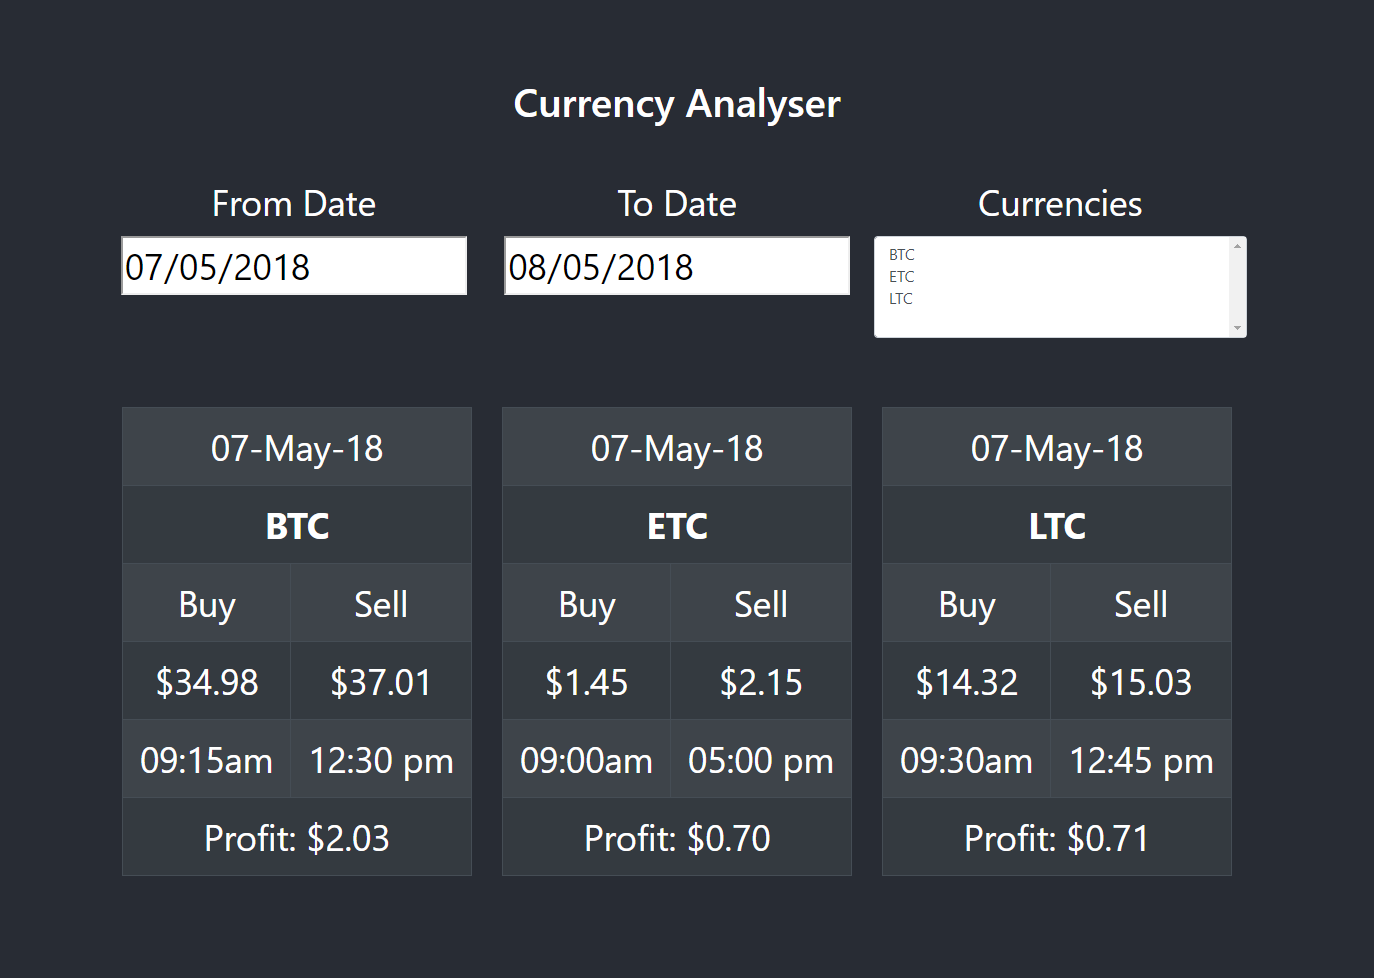
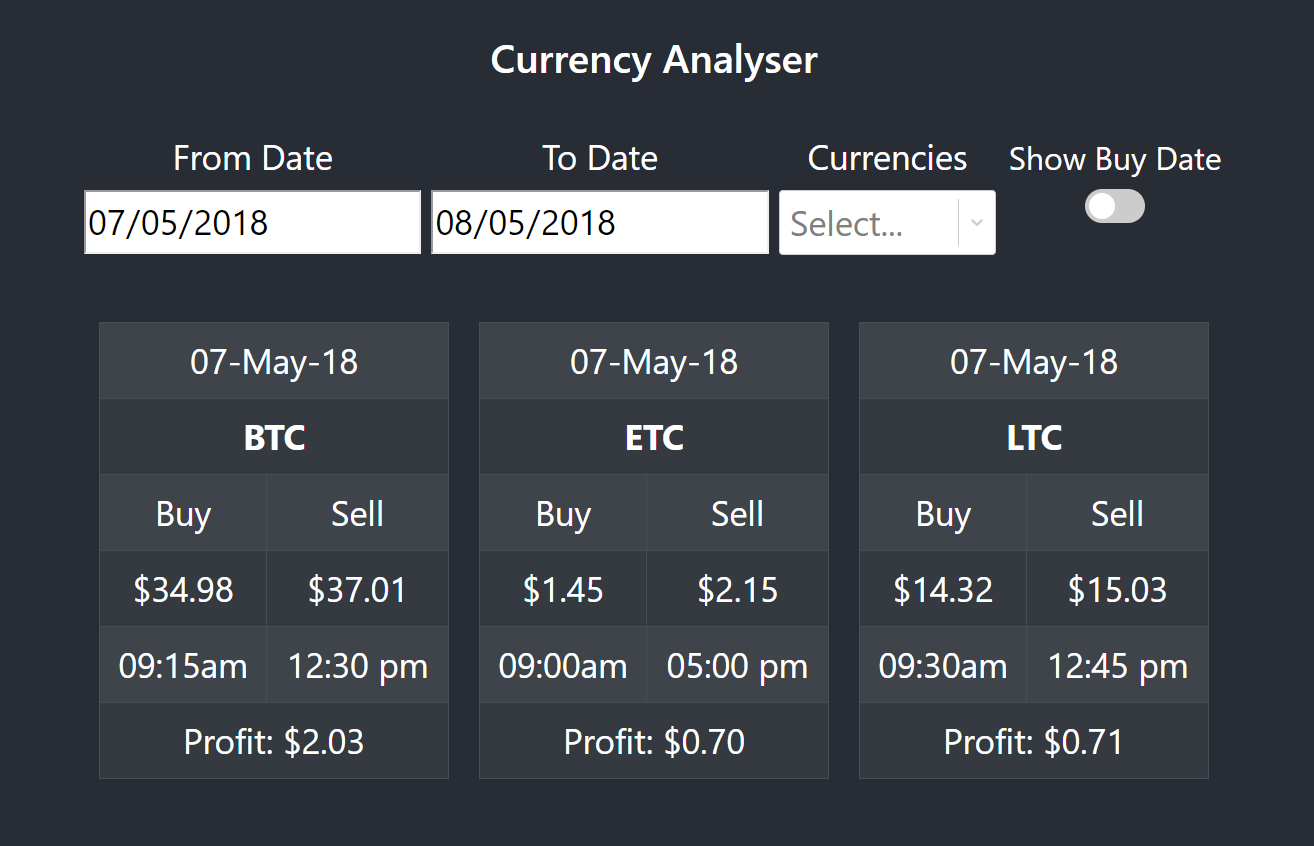
show buy date checkbox added

diff --git a/client/src/components/ProfitTable.tsx b/client/src/components/ProfitTable.tsx
@@ -7,16 +7,32 @@ import moment from 'moment'
 const ProfitTable = (props: any) => {
   return (
     <div>
-      <Table striped bordered hover variant="dark">
-        <tbody>
-          <tr><td colSpan={2}><Moment format="DD-MMMM-YY" date={props.data.buy.date}/></td></tr>
-          <tr><th colSpan={2}>{props.currency}</th></tr>
-          <tr><td>Buy</td><td>Sell</td></tr>
-          <tr><td>${props.data.buy.price}</td><td>${props.data.sell.price}</td></tr>
-          <tr><td><Moment format="hh:mma" date={moment(props.data.buy.time, "HHmm")}/></td><td><Moment format="hh:mm a" date={moment(props.data.sell.time, "HHmm")}/></td></tr>
-          <tr><td colSpan={2}>Profit: ${props.data.profit.toFixed(2)}</td></tr>
-        </tbody>
-      </Table>
+    {
+        props.showBuyDate?
+        <Table striped bordered hover variant="dark">
+          <tbody>
+            <tr><th colSpan={2}>{props.currency}</th></tr>
+            <tr>
+              <td colSpan={1}><Moment format="DD-MMMM-YY" date={props.data.buy.date}/></td>
+              <td colSpan={1}><Moment format="DD-MMMM-YY" date={props.data.sell.date}/></td>
+            </tr>
+            <tr><td>Buy</td><td>Sell</td></tr>
+            <tr><td>${props.data.buy.price}</td><td>${props.data.sell.price}</td></tr>
+            <tr><td><Moment format="hh:mma" date={moment(props.data.buy.time, "HHmm")}/></td><td><Moment format="hh:mm a" date={moment(props.data.sell.time, "HHmm")}/></td></tr>
+            <tr><td colSpan={2}>Profit: ${props.data.profit.toFixed(2)}</td></tr>
+          </tbody>
+        </Table>:
+        <Table striped bordered hover variant="dark">
+          <tbody>
+            <tr><td colSpan={2}><Moment format="DD-MMMM-YY" date={props.data.sell.date}/></td></tr>
+            <tr><th colSpan={2}>{props.currency}</th></tr>
+            <tr><td>Buy</td><td>Sell</td></tr>
+            <tr><td>${props.data.buy.price}</td><td>${props.data.sell.price}</td></tr>
+            <tr><td><Moment format="hh:mma" date={moment(props.data.buy.time, "HHmm")}/></td><td><Moment format="hh:mm a" date={moment(props.data.sell.time, "HHmm")}/></td></tr>
+            <tr><td colSpan={2}>Profit: ${props.data.profit.toFixed(2)}</td></tr>
+          </tbody>
+        </Table>
+    }
     </div>
   )
 }

diff --git a/server/src/services/profitAnalyser.ts b/server/src/services/profitAnalyser.ts
@@ -1,5 +1,15 @@
-'use struct';
 // Class for annalysing profits
+interface Action {
+  date: string;
+  time: string;
+  price: number;
+}
+interface OGetProfit {
+  buy: Action;
+  sell: Action;
+  profit: number;
+}
+
 export default class ProfitAnalyser {
   currency: Array<Object>;
   // Initialise currencies
@@ -19,9 +29,14 @@ export default class ProfitAnalyser {
       }
     }
   */
-  getProfit(): Object{
-    let result = {buy: {}, sell: {}, profit: Number.MIN_VALUE}
+  getProfit(): OGetProfit{
+    let result = {
+      buy: {date: '', time: '', price: 0},
+      sell: {date: '', time: '', price: 0},
+      profit: Number.MIN_VALUE
+    }
     const currency = this.currency;
+    console.log(currency)
     for(let i = 0; i < currency.length; i++){
       for(let j = i+1; j < currency.length; j++){
         if(result['profit']<currency[j]['price']-currency[i]['price'])
@@ -31,10 +46,10 @@ export default class ProfitAnalyser {
             sell: {
               date: currency[j]['date'], time: currency[j]['time'], price: parseFloat(currency[j]['price'])
             },
-            profit: parseFloat(currency[j]['price'])- parseFloat(currency[i]['price'])}
+            profit: (currency[j]['price'])- (currency[i]['price'])}
       }
     }
-
+    // console.log(result)
     return result;
   }
 }

diff --git a/client/src/App.tsx b/client/src/App.tsx
@@ -26,6 +26,7 @@ const App: React.FC = () => {
   })
 
   const [profit, setProfit] = useState<IProfit>({});
+  const [showBuyDate, setShowBuyDate] = useState<boolean>(false);
 
   useEffect(()=>{
     getCurrencies();
@@ -61,7 +62,10 @@ const App: React.FC = () => {
     data = await data.json();
     setProfit(data)
   }
-
+  // Function for handleing onChange of the Show Buy Date input field
+  const ChangeShowBuyDate = (e: any)=>{
+    setShowBuyDate(e.target.checked)
+  }
   // Function for handleing onChange of the fromDate input field
   const newFromDate = async (e: any)=>{
     setState({...state, fromDate: e.target.value })
@@ -89,6 +93,7 @@ const App: React.FC = () => {
         <Container>
           <Row>
             <DateForm
+              ChangeShowBuyDate={ChangeShowBuyDate}
               newFromDate={newFromDate}
               newToDate={newToDate}
               fromDate={state.fromDate}
@@ -105,6 +110,7 @@ const App: React.FC = () => {
               return(
                 <Col key={i} sm="4">
                   <ProfitTable
+                    showBuyDate={showBuyDate}
                     data={profit[currency]}
                     currency={currency}
                   />

diff --git a/client/src/components/slider.css b/client/src/components/slider.css
@@ -1,0 +1,63 @@
+/* The switch - the box around the slider */
+.switch {
+  position: relative;
+  display: inline-block;
+  width: 60px;
+  height: 34px;
+}
+
+/* Hide default HTML checkbox */
+.switch input {
+  opacity: 0;
+  width: 0;
+  height: 0;
+}
+
+/* The slider */
+.slider {
+
+  position: absolute;
+  cursor: pointer;
+  top: 0;
+  left: 0;
+  right: 0;
+  bottom: 0;
+  background-color: #ccc;
+  -webkit-transition: .4s;
+  transition: .4s;
+}
+
+.slider:before {
+  position: absolute;
+  content: "";
+  height: 26px;
+  width: 26px;
+  left: 4px;
+  bottom: 4px;
+  background-color: white;
+  -webkit-transition: .4s;
+  transition: .4s;
+}
+
+input:checked + .slider {
+  background-color: #2196F3;
+}
+
+input:focus + .slider {
+  box-shadow: 0 0 1px #2196F3;
+}
+
+input:checked + .slider:before {
+  -webkit-transform: translateX(26px);
+  -ms-transform: translateX(26px);
+  transform: translateX(26px);
+}
+
+/* Rounded sliders */
+.slider.round {
+  border-radius: 34px;
+}
+
+.slider.round:before {
+  border-radius: 50%;
+}

diff --git a/client/src/components/DateForm.tsx b/client/src/components/DateForm.tsx
@@ -3,7 +3,7 @@ import React from 'react';
 import Form from 'react-bootstrap/Form'
 import Col from 'react-bootstrap/Col'
 import Select from 'react-select'
-
+import './slider.css'
 
 const customStyles = {
   option: (provided: any) => ({
@@ -49,6 +49,16 @@ const DateForm = (props: any) => {
                 return { value: currency, label: currency }
               })}
             />
+        </Form.Group>
+      </Col>
+      <Col>
+        <Form.Group>
+          <Form.Label style={{fontSize: "2rem"}}>Show Buy Date</Form.Label>
+          {/* <Form.Check type="checkbox" /> */}
+          <label className="switch">
+            <input type="checkbox" onChange={props.ChangeShowBuyDate}/>
+            <span className="slider round"></span>
+          </label>
         </Form.Group>
       </Col>
       </Form.Row>

diff --git a/server/src/services/currencyDataFormatter.ts b/server/src/services/currencyDataFormatter.ts
@@ -1,4 +1,12 @@
-'use struct';
+'use strict';
+
+interface OFormatCurrencies {
+  [key: string]: Array<{
+    date: string;
+    time: string;
+    price: number;
+  }>;
+}
 // Class for formatting currency data
 export default class CurrencyDataFormatter {
   currencies: Array<Object>;
@@ -14,7 +22,7 @@ export default class CurrencyDataFormatter {
       <CurrencyName>: [{date: <date>, time: <time>, price: <profit>}]
     }
   */
-  formatCurrencies(): Object{
+  formatCurrencies(): OFormatCurrencies{
     let result = {};
     this.currencies.forEach(currencyDay => {
       currencyDay['quotes'].forEach(currency => {
